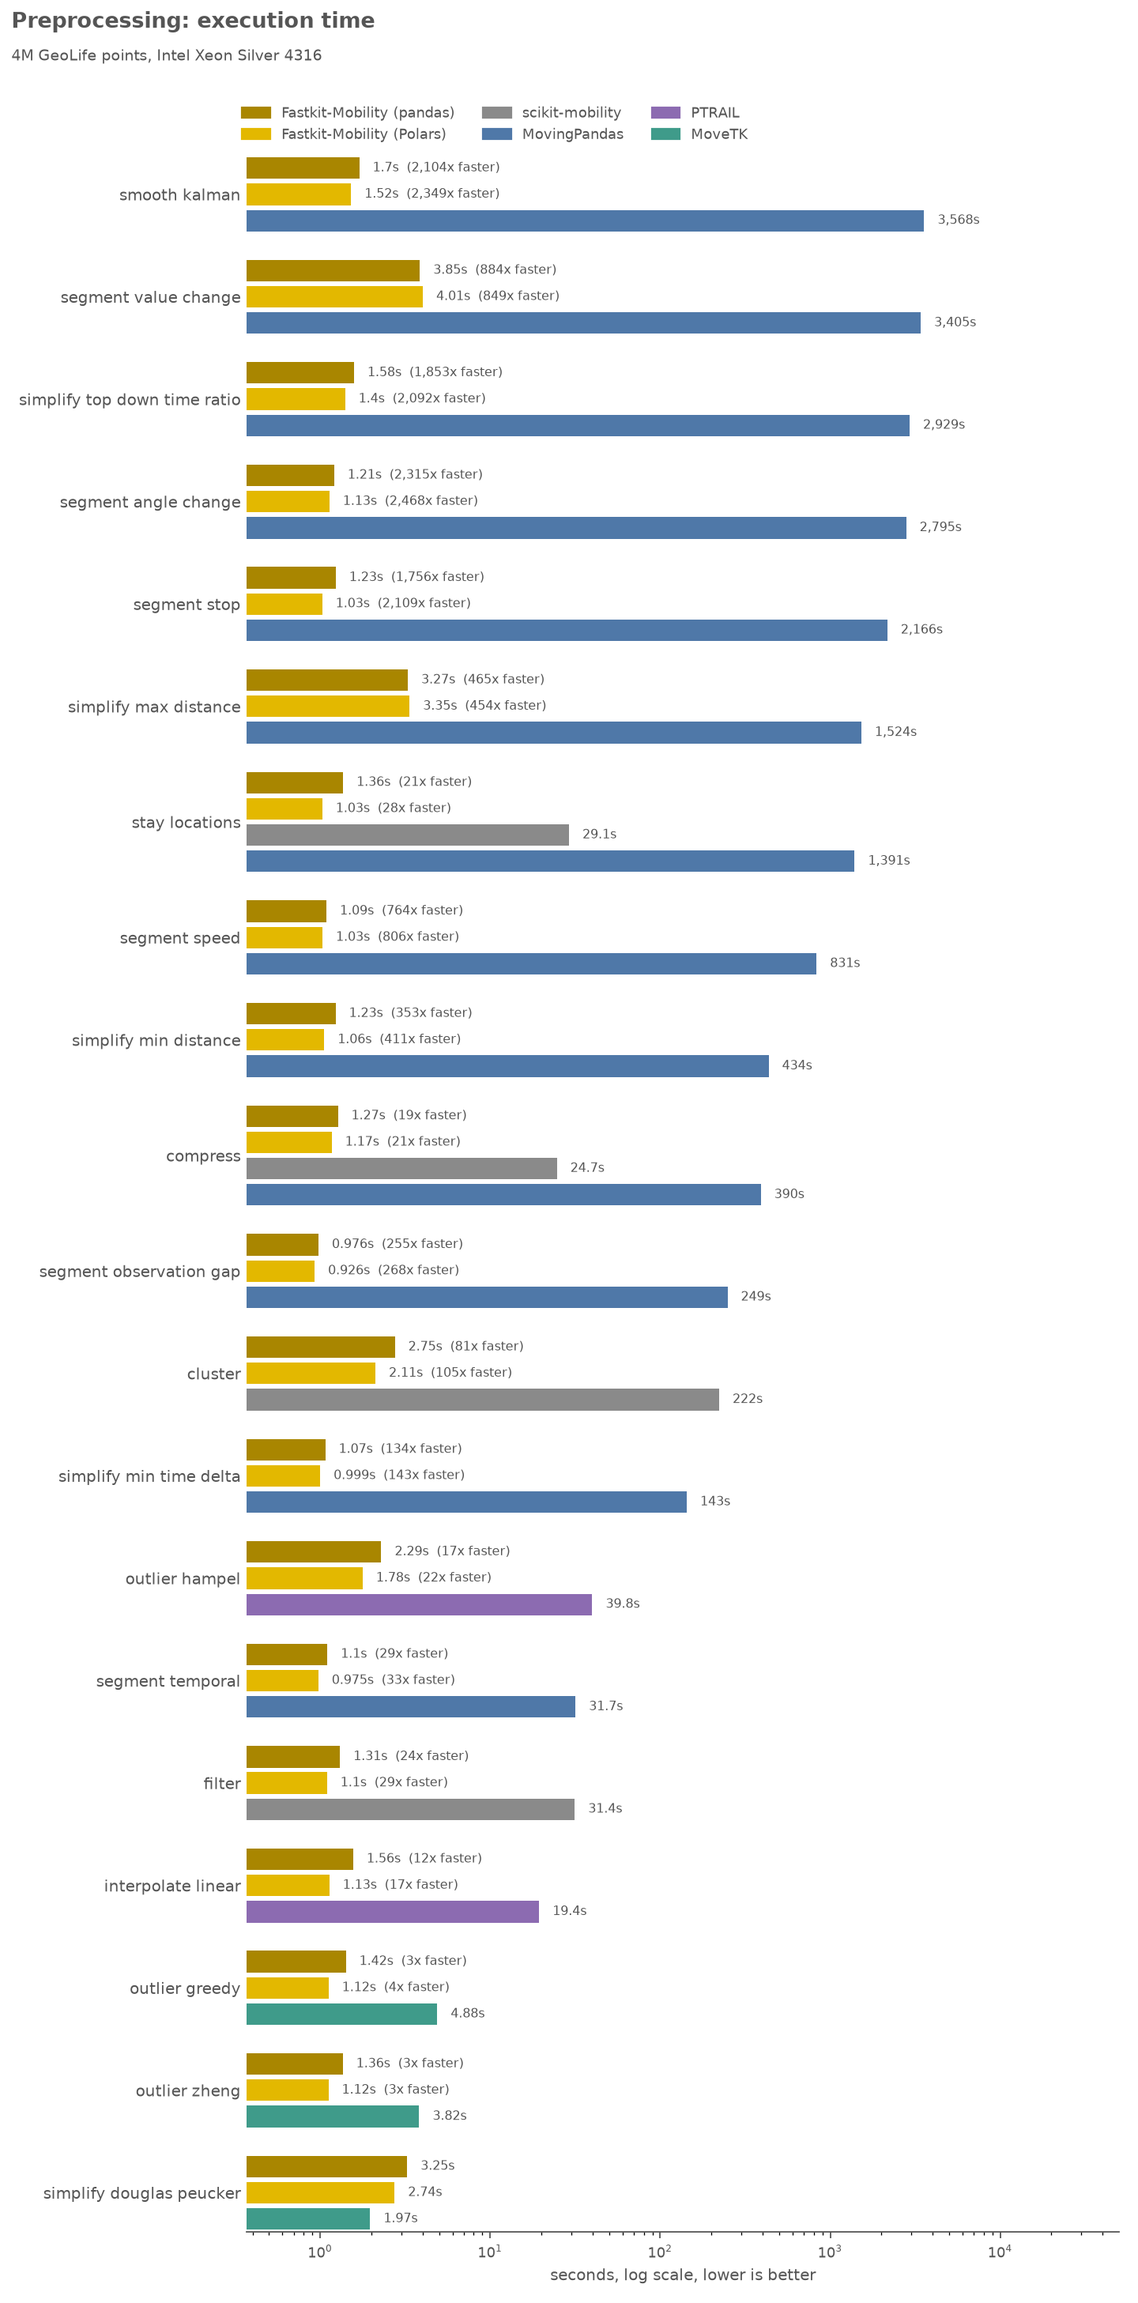
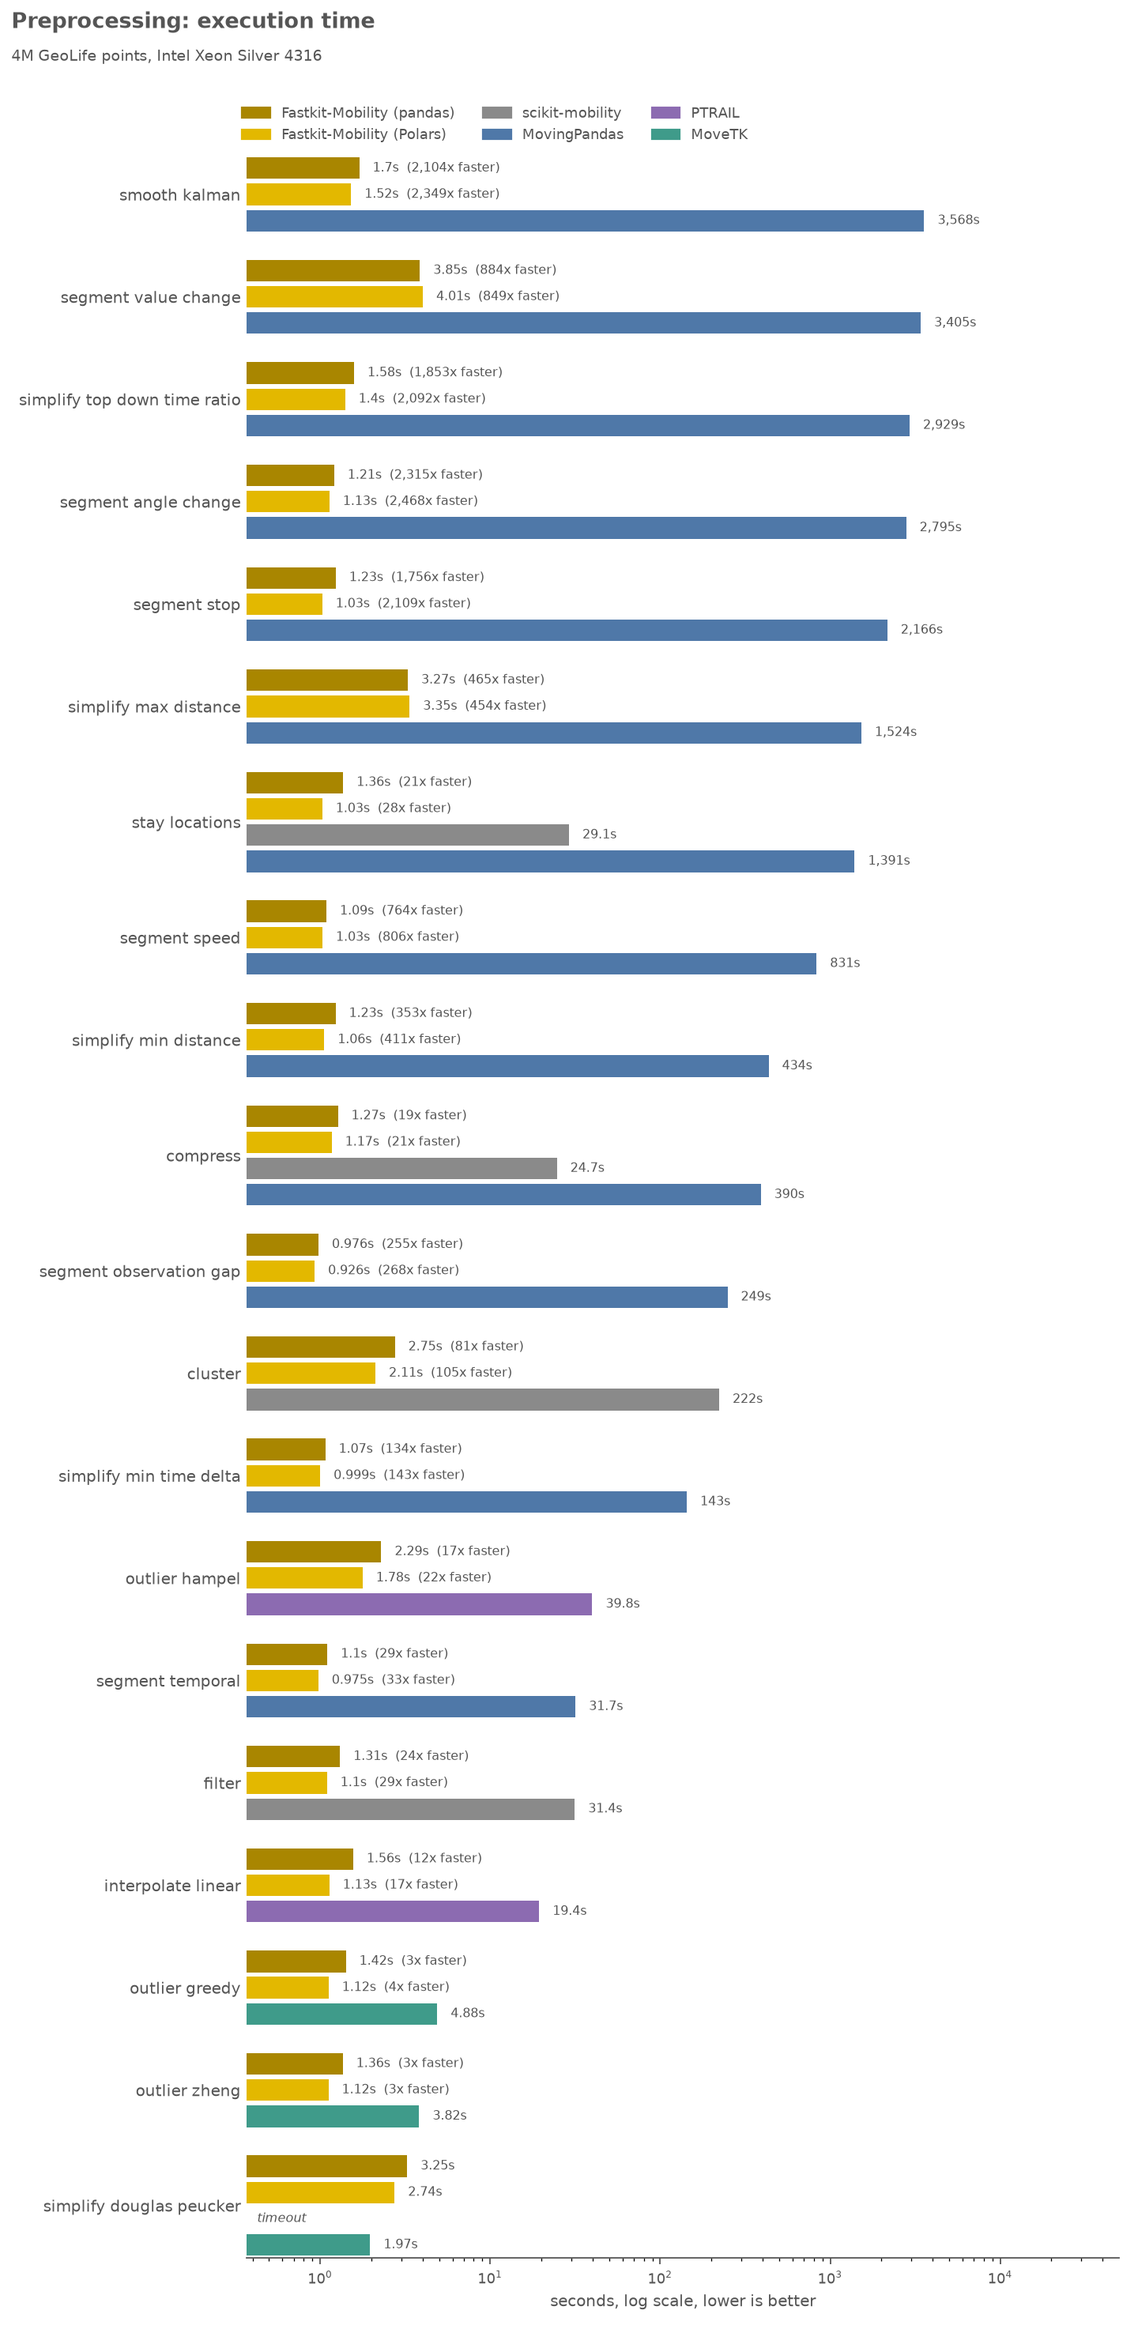
Benchmarks page: add trackintel, HuMobi, road-network and scaling results; show timeouts; add setup and caveats

diff --git a/scripts/make_benchmark_figures.py b/scripts/make_benchmark_figures.py
@@ -1,7 +1,7 @@
 """Regenerate every benchmark figure of the docs from the raw benchmark results.
 
 One chart type (horizontal grouped bars, log axis) is drawn from tidy ``Run``
-records, so adding a figure means adding one entry to ``FIGURES``.
+records, so adding a figure means adding one entry to ``figures()``.
 
 Sources live in the sibling ``fastmob_benchmarks`` repository (``--bench-repo``):
 the measures and preprocessing suites write ``*_benchmarks.json`` with one record
@@ -51,6 +51,7 @@ COLLECTIVE = {
 }
 TEXT = "#555555"
 MEMORY_FLOOR_MB = 0.1
+MEMORY_RATIO_MIN_MB = 5.0  # below this, a memory ratio is inside the measurement noise
 
 
 @dataclass(frozen=True)
@@ -101,6 +102,25 @@ def load_privacy_speed(folder: Path) -> list[Run]:
     return runs
 
 
+def load_stage_csv(path: Path, tier: str, stage_field: str = "stage", where: dict[str, str] | None = None) -> list[Run]:
+    """Stage-timed suites (trajectory_hierarchy, next_location) write one CSV row per library/tier/stage."""
+    with path.open() as fh:
+        rows = [
+            r for r in csv.DictReader(fh) if r["tier"] == tier and all(r.get(k) == v for k, v in (where or {}).items())
+        ]
+    seen: dict[tuple[str, str], Run] = {}
+    for r in rows:
+        seconds = float(r["average_seconds"]) if r["average_seconds"] else None
+        seen[(r["library"], r[stage_field])] = Run(
+            r[stage_field],
+            _key(r["library"].split("-")[0], r["library"].partition("-")[2] or None),
+            seconds,
+            None,
+            r["status"],
+        )
+    return list(seen.values())
+
+
 def load_hyperfine_csv(path: Path, op: str, size: int) -> list[Run]:
     with path.open() as fh:
         rows = [r for r in csv.DictReader(fh) if int(r["size"]) == size]
@@ -123,9 +143,21 @@ def figures(repo: Path) -> list[Figure]:
 
     measures = load_json(res("measures", f"{I7}_brightkite4M", "measures_benchmarks.json"), "name")
     preprocessing = load_json(res("preprocessing", XEON, "preprocessing_benchmarks.json"), "operation")
+    # Timed-out cases never reach the aggregated JSON; recover them from the per-case checkpoints.
+    seen = {(r.op, r.library) for r in preprocessing}
+    for ckpt in sorted((res("preprocessing", XEON, "") / "checkpoints").glob("*_4M.json")):
+        rec = json.loads(ckpt.read_text())
+        key = (rec["operation"], _key(rec["library"], rec.get("backend")))
+        if rec["status"] == "timeout" and rec.get("label") == "4M" and key not in seen:
+            preprocessing.append(Run(key[0], key[1], None, None, "timeout"))
     spark = load_json(
         res("sparkmobility", XEON.replace("py313", "py312"), "sparkmobility_benchmarks.json"), "name", "raw"
     )
+    hierarchy = load_stage_csv(res("trajectory_hierarchy", I7, "trajectory_hierarchy_benchmark.csv"), "full")
+    hierarchy = [r for r in hierarchy if r.op in ("generate_staypoints", "generate_locations")]
+    nextloc_csv = repo / "benchmarks/next_location/results/next_location_benchmark.csv"
+    nextloc_yj = load_stage_csv(nextloc_csv, "yjmobfull", where={"dataset": "yjmob", "order": "2"})
+    nextloc_bk = load_stage_csv(nextloc_csv, "full", where={"dataset": "brightkite", "order": "2"})
     jump = load_hyperfine_csv(res("jump_lengths", I7, "jump_lengths_benchmark.csv"), "jump_lengths", 4_000_000)
     # The jump_lengths CSV cites Fastkit-Mobility; use the measured values from the measures suite instead.
     jump = [r for r in jump if not r.library.startswith("fastmob")] + [
@@ -159,7 +191,38 @@ def figures(repo: Path) -> list[Figure]:
             privacy,
         )
     )
-    out.append(Figure("jump-lengths-libraries", "jump_lengths across eight libraries", brightkite, jump))
+    out.append(
+        Figure(
+            "jump-lengths-libraries",
+            "jump_lengths across nine libraries",
+            brightkite + "; competitors timed by hyperfine minus start-up, Fastkit-Mobility in-process",
+            jump,
+        )
+    )
+    out.append(
+        Figure(
+            "hierarchy-trackintel-speed",
+            "Staypoints and locations vs trackintel: execution time",
+            "full GeoLife (24.9M points), Intel Core i7-10700",
+            hierarchy,
+        )
+    )
+    out.append(
+        Figure(
+            "next-location-yjmob-speed",
+            "Next-location model vs HuMobi: execution time",
+            "full YJMob100K (111.5M rows, 100,000 users), AMD Ryzen 9 9950X3D, order-2 Markov chain",
+            nextloc_yj,
+        )
+    )
+    out.append(
+        Figure(
+            "next-location-brightkite-speed",
+            "Next-location model vs HuMobi: execution time",
+            "full Brightkite (4.7M rows, 39,058 users), AMD Ryzen 9 9950X3D, order-2 Markov chain",
+            nextloc_bk,
+        )
+    )
     return out
 
 
@@ -178,7 +241,7 @@ def _label(run: Run, metric: str, best_other: float | None) -> str:
     if (
         best_other
         and run.library.startswith("fastmob")
-        and (metric == "seconds" or value >= MEMORY_FLOOR_MB)
+        and (metric == "seconds" or value >= MEMORY_RATIO_MIN_MB)
         and best_other / value >= 2
     ):
         text += (
@@ -191,7 +254,7 @@ def _label(run: Run, metric: str, best_other: float | None) -> str:
 
 def draw(fig_spec: Figure, out: Path) -> None:
     metric = fig_spec.metric
-    runs = [r for r in fig_spec.runs if r.status == "ok" or r.status in ("timeout", "error")]
+    runs = [r for r in fig_spec.runs if r.status in ("ok", "timeout", "error")]
     by_op: dict[str, dict[str, Run]] = {}
     for r in runs:
         by_op.setdefault(r.op, {})[r.library] = r
@@ -204,7 +267,7 @@ def draw(fig_spec: Figure, out: Path) -> None:
         op
         for op, libs in by_op.items()
         if any(value(r) is not None for k, r in libs.items() if k.startswith("fastmob"))
-        and any(value(r) is not None for k, r in libs.items() if not k.startswith("fastmob"))
+        and any(value(r) is not None or r.status == "timeout" for k, r in libs.items() if not k.startswith("fastmob"))
     ]
     ops.sort(key=lambda o: -max(value(r) or 0 for r in by_op[o].values()))
     present = [k for k in LIBRARIES if any(k in by_op[o] for o in ops)]
@@ -258,7 +321,7 @@ def draw(fig_spec: Figure, out: Path) -> None:
     fig.text(0.01, 0.995, fig_spec.title, ha="left", va="top", fontsize=12, color=TEXT, fontweight="bold")
     fig.text(0.01, 0.995 - 0.3 / fig.get_figheight(), fig_spec.subtitle, ha="left", va="top", fontsize=8.5, color=TEXT)
     fig.tight_layout(rect=(0, 0, 1, 1 - 0.65 / fig.get_figheight()))
-    fig.savefig(out / f"{fig_spec.name}.png", transparent=True)
+    fig.savefig(out / f"{fig_spec.name}.png", facecolor="white")
     plt.close(fig)
 
 

diff --git a/docs/src/features/benchmarks.md b/docs/src/features/benchmarks.md
@@ -1,14 +1,42 @@
 # Benchmark Results
 
-These plots compare Fastkit-Mobility with every library that offers the same function, on the largest datasets we benchmark. Bars show average time (or peak extra memory) on a log axis, and the label on a Fastkit-Mobility bar is its advantage over the best other library. A bar reading *timeout* or *error* means the library did not finish.
+These plots compare Fastkit-Mobility with every library that offers the same function. Bars show average time (or peak extra memory) on a log axis, and the label on a Fastkit-Mobility bar is its advantage over the best other library. A bar reading *timeout* or *error* means the library did not finish; those operations are kept, not hidden.
 
-The numbers are environment-specific, so they should be read as benchmark evidence for this run rather than as a universal performance guarantee.
+The numbers are environment-specific, so read them as benchmark evidence for these runs rather than as a universal performance guarantee.
+
+## Summary
+
+| Suite | Compared with | Data | Hardware | Headline result |
+|---|---|---|---|---|
+| [Individual and collective measures](#measures) | scikit-mobility | 4M Brightkite check-ins | Core i7-10700 | individual measures about 190x to 2,700x faster; two scikit-mobility measures time out; slower than scikit-mobility on `visits_per_location` with pandas (1.28 s against 1.18 s); `visits_per_time_unit` only 2.6x faster |
+| [Preprocessing](#preprocessing) | scikit-mobility, MovingPandas, PTRAIL, MoveTK | 4M GeoLife points | Xeon Silver 4316 | see figure; MovingPandas times out on Douglas-Peucker simplification |
+| [Staypoints and locations](#staypoints-and-locations) | trackintel | full GeoLife, 24.9M points | Core i7-10700 | staypoints 0.86 s against 316 s |
+| [Next-location model](#next-location-model) | HuMobi | YJMob100K, 111.5M rows | Ryzen 9 9950X3D | fit 5-6x and predict 39-46x faster on YJMob100K; on Brightkite the pandas fit is only 1.7x faster |
+| [Single function, every library](#one-function-every-library) | eight other libraries | 4M Brightkite check-ins | Core i7-10700 | `jump_lengths`; MoveTK ties at small sizes |
+| [Road network](#road-network) | TransBigData, stplanr with OSRM | GeoLife Beijing | Core i7-10700 | much faster distances, routes and CH preparation; slower fetch-and-extract build |
+| [Privacy risk](#privacy) | scikit-mobility | toy trajectories repeated 30x | Core i7-10700 | see figure |
+| [Distributed baseline](#distributed-baseline-sparkmobility) | SparkMobility | full GeoLife, 24.9M points | Xeon Silver 4316 | see figure |
+| [Scaling without a competitor](#scaling-fastkit-mobility-only) | none | YJMob100K up to 111.5M rows | Core i7-10700 | motifs, mobility laws, social recast |
+
+## Setup
+
+| Item | Value |
+|---|---|
+| Hardware | Intel Core i7-10700 (16 threads) unless stated; Intel Xeon Silver 4316 (40 threads) for preprocessing and SparkMobility; AMD Ryzen 9 9950X3D for the next-location suite. A single figure never mixes machines. Most suites were also run on the Ryzen and the Xeon, and those results are in the raw repository. |
+| Python | 3.12 for Fastkit-Mobility (3.13 on the Xeon preprocessing run). Each competitor runs in its own environment: scikit-mobility, for instance, ran on 3.10 in the privacy suite and 3.11 elsewhere. |
+| Timing | Average wall-clock time of repeated runs, with data loading excluded. The `jump_lengths` competitors are timed by `hyperfine` with the interpreter start-up and import baseline subtracted. |
+| Memory | Peak resident memory above a load-only baseline. A bar labelled `<0.1 MB` means the operation stayed below what the method can resolve, not that it used no memory. |
+| Input order | The measures figures use time-sorted input; preprocessing and SparkMobility use raw (unsorted) input. |
+| Timeouts | 900 s for measures (3,600 s for `uncorrelated_location_entropy`). Preprocessing used 900 s per case; MovingPandas was rerun with 32,000 s and its Douglas-Peucker simplification still exceeded it. No SparkMobility case timed out. |
+| Datasets | Brightkite (about 4M check-ins; scikit-mobility received 3,999,891 rows, Fastkit-Mobility 4,000,000), GeoLife (24.9M points in full) and YJMob100K (111.5M rows in full). |
+
+Memory ratios are shown only when Fastkit-Mobility uses at least 5 MB, because smaller values sit inside the measurement noise. Raw results, scripts and per-library environments are in the [`fastmob_benchmarks`](https://github.com/gefgu/fastmob_benchmarks) repository.
 
 ## One function, every library
 
-`jump_lengths` is the function the most libraries share.
+`jump_lengths` is the function the most libraries share. Competitors are timed by `hyperfine` in a separate process, with the start-up cost subtracted, while Fastkit-Mobility is timed in-process, so treat this plot as a ranking rather than an exact ratio. Differences below about 0.02 s are within measurement noise: MoveTK and Fastkit-Mobility are effectively tied at 1k and 10k rows, and the gap opens with the data size. The scikit-mobility bar here (42.8 s) differs from the measures figure (79.2 s) because the two suites time the work differently.
 
-![jump_lengths speed across eight libraries](../assets/benchmarks/jump-lengths-libraries.png)
+![jump_lengths speed across nine libraries](../assets/benchmarks/jump-lengths-libraries.png)
 
 ## Measures
 
@@ -26,40 +54,82 @@ The numbers are environment-specific, so they should be read as benchmark eviden
 
 ## Preprocessing
 
+MoveTK appears for operations it implements. Its Douglas-Peucker time (1.97 s) is its total minus its own file-parsing baseline and is not measured on the same boundary as the Fastkit-Mobility bars, so it is not a like-for-like win. MovingPandas timed out on that operation. Fastkit-Mobility times come from the 2026-08 table record (`preprocessing_benchmarks.json`); later per-case checkpoints from an unreleased development build are not used.
+
 ![Preprocessing, execution time](../assets/benchmarks/preprocessing-speed.png)
 
 ![Preprocessing, peak extra memory](../assets/benchmarks/preprocessing-memory.png)
 
+## Staypoints and locations
+
+Compared with trackintel on the full GeoLife dataset (single runs). Only stages that produce comparable results are shown. Fastkit-Mobility's tripleg generation does not yet split on tracking gaps (388 triplegs against trackintel's 4,146), so triplegs, trips and tours are left out of the comparison.
+
+![Staypoints and locations against trackintel, execution time](../assets/benchmarks/hierarchy-trackintel-speed.png)
+
+## Next-location model
+
+`NextLocationPredictor` compared with HuMobi's Markov chain. These runs were recorded on the Ryzen host and the absolute times may carry some disk contention. Fastkit-Mobility predicts the most frequent next location, while HuMobi draws from the transition frequencies, so the predicted locations are not expected to match one by one.
+
+![Next-location fit and predict on YJMob100K](../assets/benchmarks/next-location-yjmob-speed.png)
+
+![Next-location fit and predict on Brightkite](../assets/benchmarks/next-location-brightkite-speed.png)
+
+## Road network
+
+Compared with TransBigData and with stplanr using a local OSRM server, on GeoLife Beijing (Core i7-10700). This is mixed evidence: building a road network by fetching and extracting it is slower in Fastkit-Mobility, but the two are not like for like: Fastkit-Mobility fetches live data from Overture on S3, while stplanr's `osrm-extract` reads a local file. The comparable preparation step (CH preparation) favours Fastkit-Mobility. Values below are seconds from single runs; cells marked n/a mean the library has no matching operation.
+
+| Operation | Scale | Fastkit-Mobility | TransBigData | stplanr (OSRM) |
+|---|---|---:|---:|---:|
+| Build road network (fetch/extract) | 1 km² | 91.3 | n/a | 4.07 |
+| Build road network (fetch/extract) | 25 km² | 136.2 | n/a | 0.36 |
+| Build road network (fetch/extract) | 225 km² | 125.8 | n/a | 0.77 |
+| Network distances | 10,000 OD pairs | 0.005 | 84.4 | timeout |
+| Route geometry | 1,000 queries | 0.03 | 8.44 | 1.36 |
+| Route geometry | 10,000 queries | 0.01 | 83.4 | timeout |
+| OD desire lines | 1,000 OD pairs | 0.004 | n/a | 2.28 |
+| OD desire lines | 10,000 OD pairs | 0.01 | n/a | timeout |
+| Build road network (CH preparation) | 1 km² | 0.01 | n/a | 0.36 |
+| Build road network (CH preparation) | 225 km² | 0.24 | n/a | 5.02 |
+
+The stplanr timeouts at 10,000 queries come from a reproducible hang of the local OSRM server, not from stplanr itself. Larger TransBigData cases were extrapolated rather than measured and are left out.
+
+## Privacy
+
+Privacy-risk metrics on toy trajectories repeated 30 times, with scikit-mobility given a prebuilt trajectory dataframe.
+
+![Privacy risk, execution time](../assets/benchmarks/privacy-speed.png)
+
 ## Distributed baseline: SparkMobility
+
+SparkMobility runs in local mode on one host and includes Parquet input and output. Its downstream operations ran on 283,168 rows against 67,456 for Fastkit-Mobility, and the two systems implement different algorithms for some operations. Read these plots as a scale reference, not a like-for-like contest.
 
 ![Execution time against SparkMobility](../assets/benchmarks/sparkmobility-speed.png)
 
 ![Peak extra memory against SparkMobility](../assets/benchmarks/sparkmobility-memory.png)
 
-## Measures - Evaluation
+## Scaling (Fastkit-Mobility only)
 
-*The evaluation and model plots below are earlier snapshots in the previous plotting style.*
+These functions have no comparable implementation in the other libraries, so the tables show how Fastkit-Mobility scales on YJMob100K. Each cell is seconds (and peak extra megabytes, where recorded); the Core i7-10700 was used.
 
-#### Measures - Evaluation - (Speed) - NumPy and Rust kernels
-![measures evaluation speed benchmark](../assets/benchmarks/fastmob_vs_skmob_evaluation_4M.png)
-<!-- 
-#### Measures - Evaluation - (Memory) (Still needs adjusts)
-![measures evaluation memory benchmark](../assets/benchmarks/fastmob_vs_skmob_evaluation_pandas_4M_memory.png) -->
+**Daily motifs** (seconds / MB)
 
+| Rows | pandas | Polars |
+|---:|---:|---:|
+| 100k | 0.0093 / 1.3 | 0.0028 / 0.5 |
+| 1M | 0.0604 / 12.9 | 0.0120 / 5.3 |
+| 10M | 0.546 / 130.6 | 0.101 / 54.3 |
+| 100M | 5.48 / 1,326.7 | 1.13 / 563.6 |
+| full (111.5M) | 6.08 / 1,484.2 | 1.21 / 633.2 |
 
-## Models
+**Mobility laws, full dataset** (average seconds; the truncated power law uses the 87.4M rows that qualify)
 
-#### Models Agents - Speed
-![Simple models speed benchmark](../assets/benchmarks/model_agent_based_100_agents.png)
+| Fit | pandas | Polars |
+|---|---:|---:|
+| daily location lognormal | 5.96 | 6.09 |
+| truncated power law | 6.88 | 6.74 |
+| visitation law | 58.0 | 44.9 |
 
-
-#### Models Agents - Speed (No rust core yet...)
-![Simple models speed benchmark](../assets/benchmarks/model_location_only_10k_locations.png)
-
-
-## Privacy
-
-![Privacy risk, execution time](../assets/benchmarks/privacy-speed.png)
+**Social recast** (seconds): 0.029 s at 100k rows, 0.40 s at 1M and 72.6 s at 10M with pandas (73.2 s with Polars). The 100M tier was not run because memory use grows with the encounter count.
 
 ## Reproduce the figures
 
